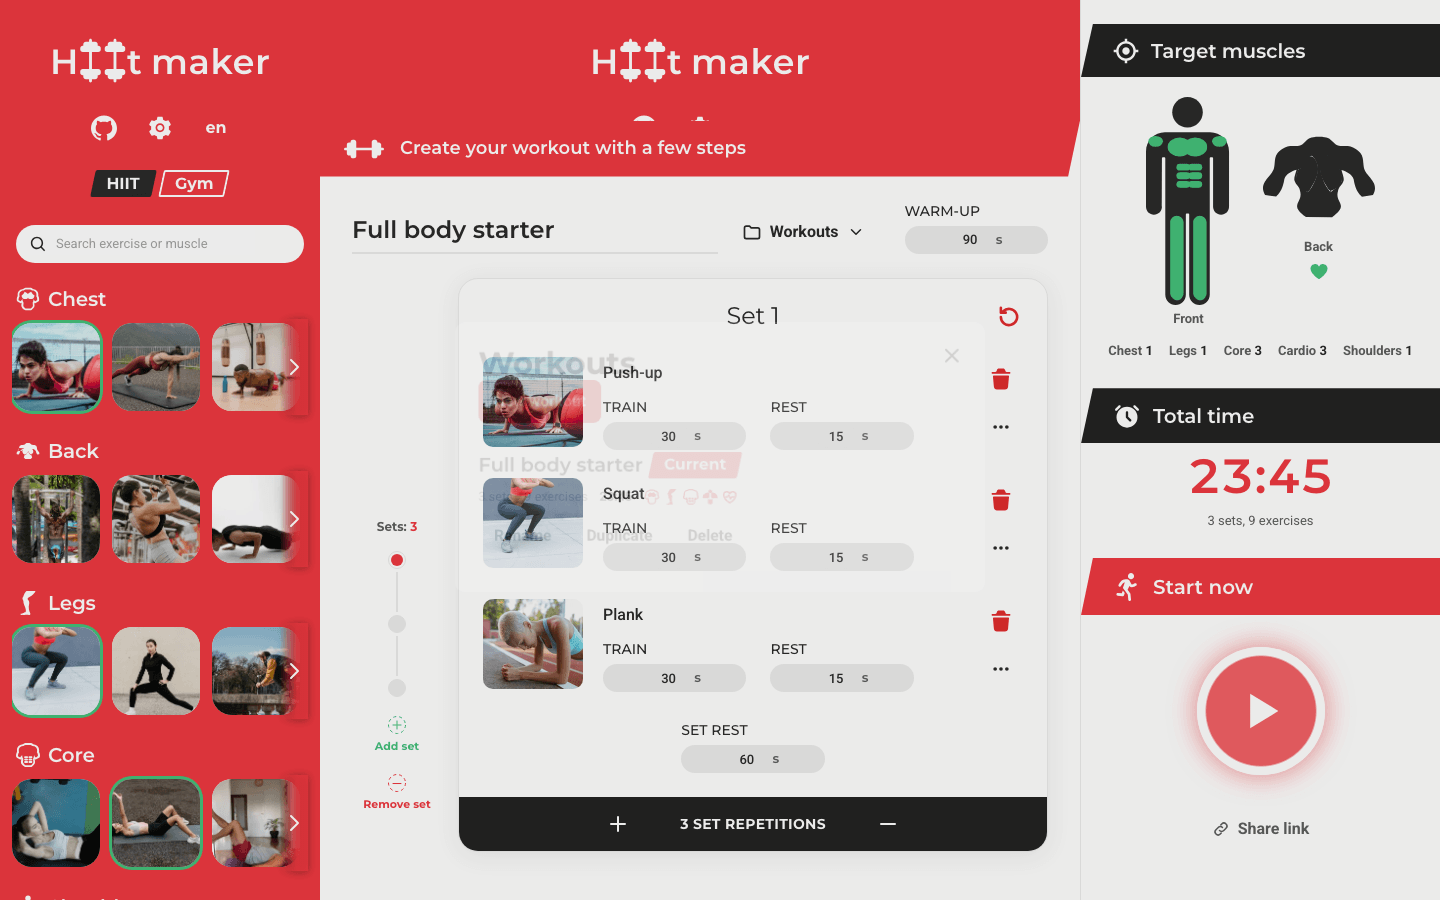
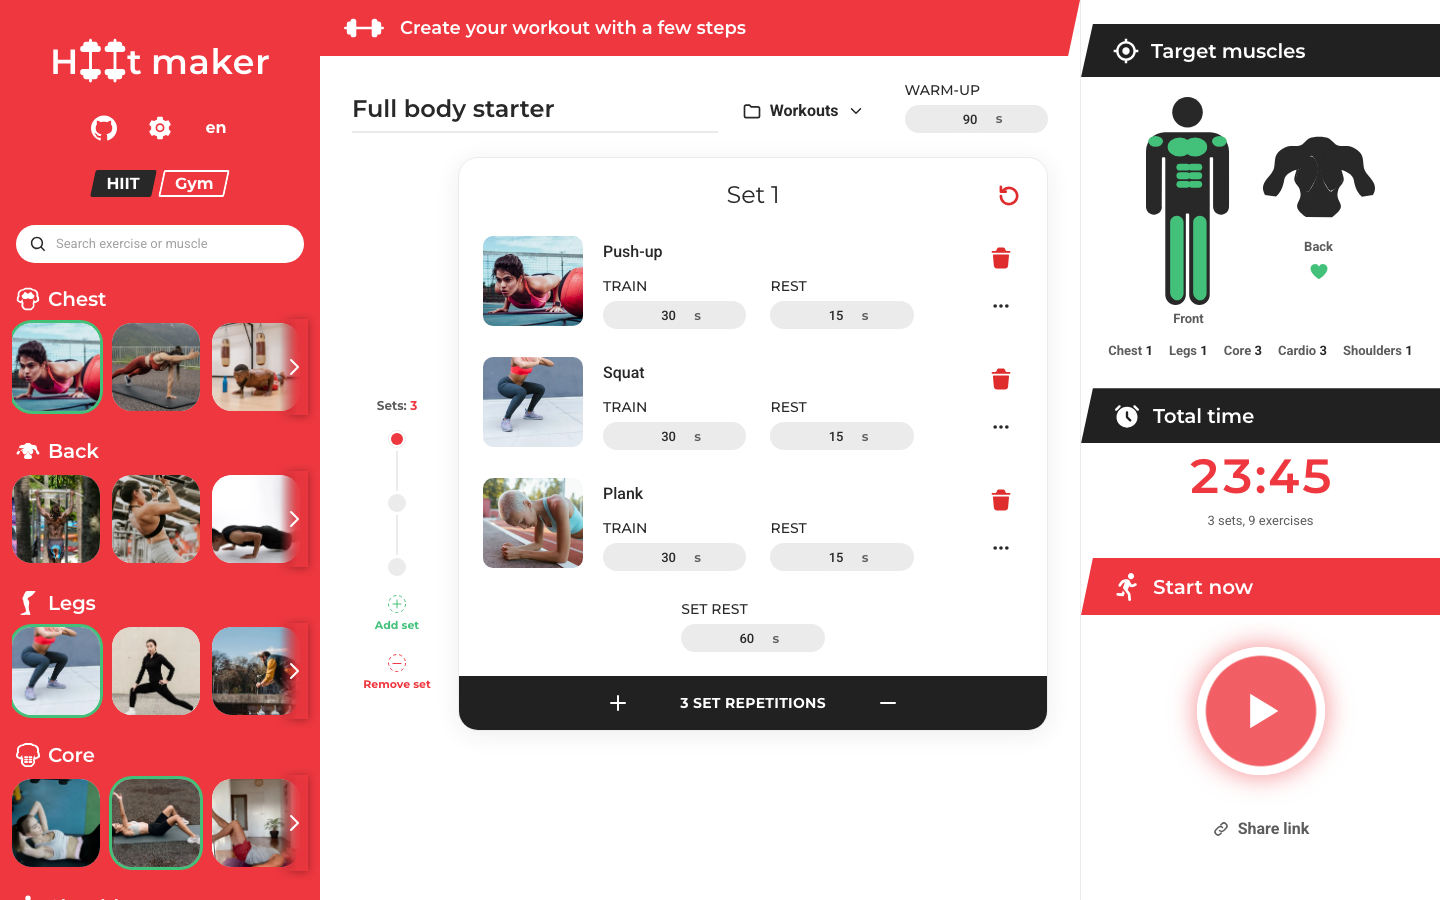
fix: render one brand rail in the builder per viewport

diff --git a/src/test/setup.ts b/src/test/setup.ts
@@ -16,3 +16,17 @@ if (typeof HTMLDialogElement !== 'undefined' && typeof HTMLDialogElement.prototy
     this.dispatchEvent(new Event('close'));
   };
 }
+
+if (typeof window !== 'undefined' && typeof window.matchMedia !== 'function') {
+  window.matchMedia = (query: string) =>
+    ({
+      matches: /min-width/.test(query),
+      media: query,
+      onchange: null,
+      addEventListener: () => undefined,
+      removeEventListener: () => undefined,
+      addListener: () => undefined,
+      removeListener: () => undefined,
+      dispatchEvent: () => false,
+    }) as MediaQueryList;
+}

diff --git a/src/routes/hiit/Builder.tsx b/src/routes/hiit/Builder.tsx
@@ -68,10 +68,10 @@ export function HiitBuilder() {
   return (
     <MotionConfig reducedMotion="user">
       <div className="builder">
-        <BuilderRail className="hidden lg:block" {...catalogProps} />
+        {desktop ? <BuilderRail {...catalogProps} /> : null}
 
         <div className="flex min-w-0 flex-col">
-          <BuilderTopBar className="lg:hidden" />
+          {desktop ? null : <BuilderTopBar />}
           <Banner />
           <main
             id="workout-editor"
